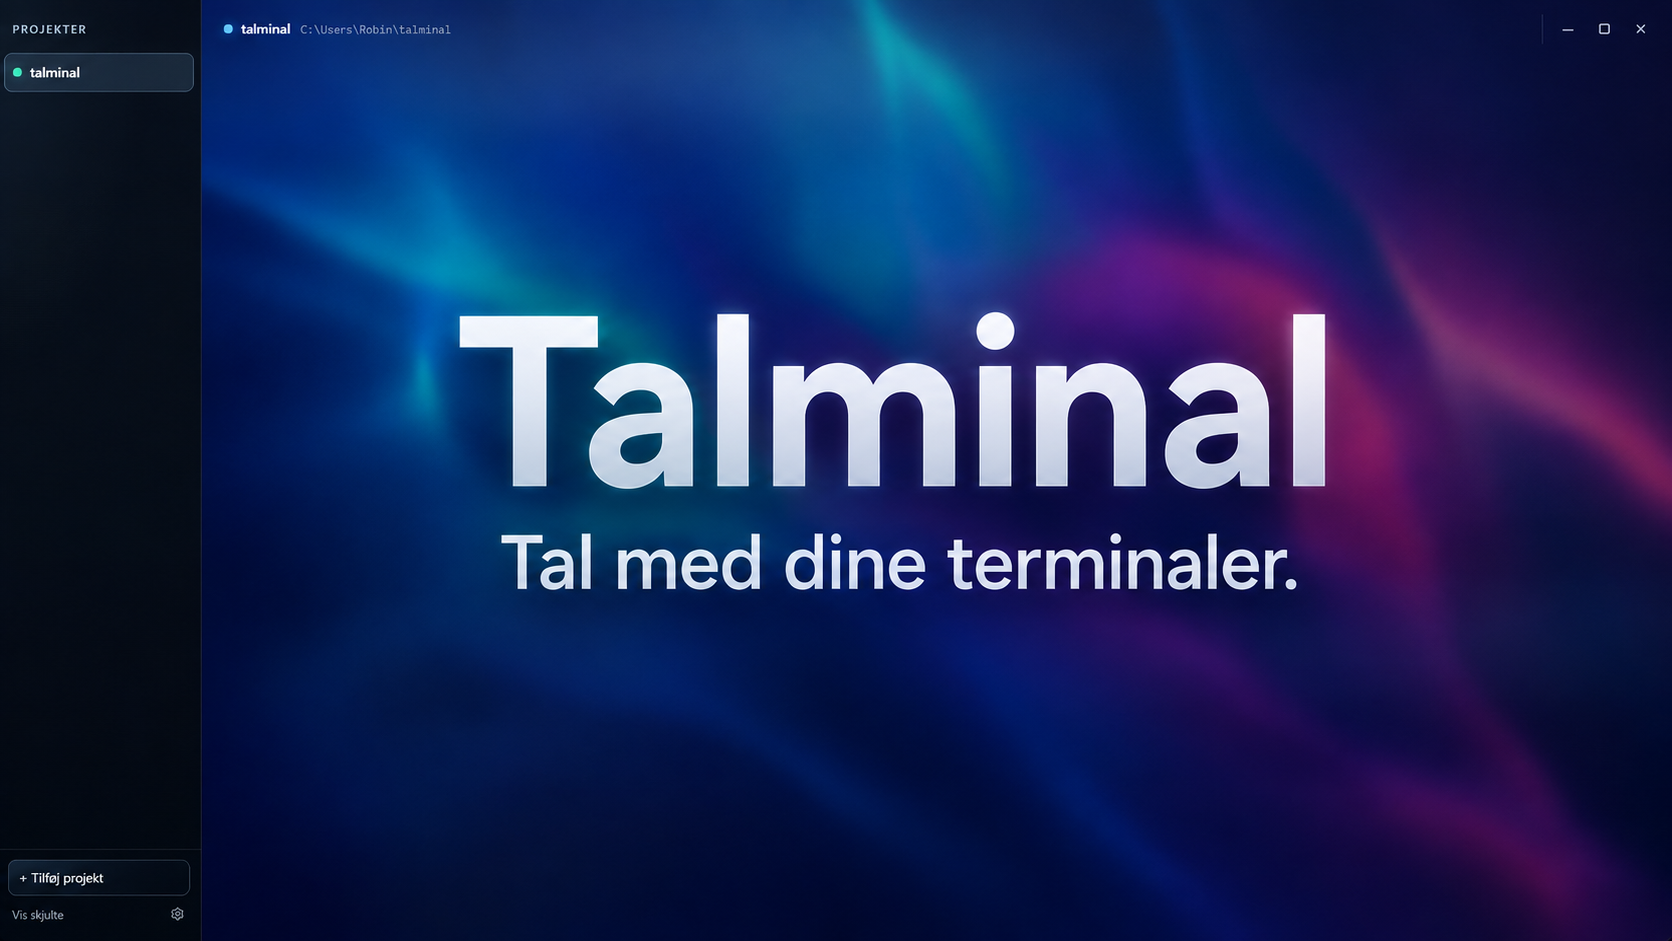
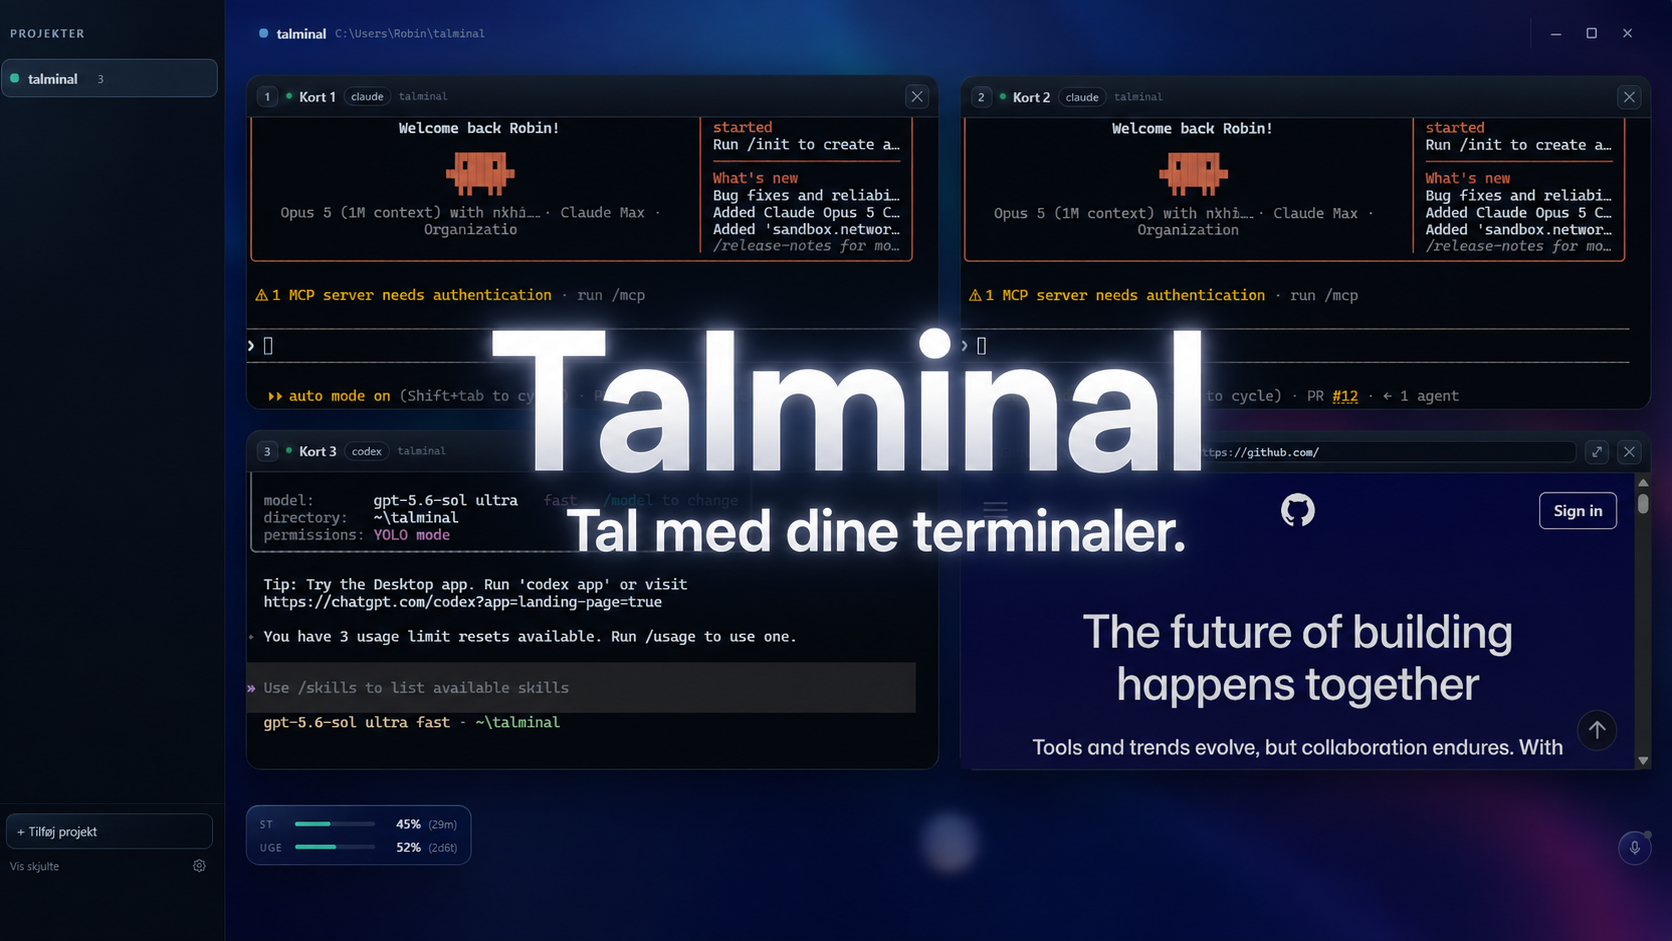
docs(readme): hero viser nu fire kort — stadig TIL GENNEMSYN
Erstatter motivet paa ejerens anmodning. Kopieret raat igen, saa C2PA er
intakt (31 forekomster, gpt-image 2.0).

Motivet er markant staerkere: fire kort — to Claude, et Codex, et browser-
kort — i stedet for et tomt canvas. Det svarer nu paa "hvad er det her?"
uden en linje tekst, og det viser det der adskiller produktet fra ccanvas
og de oevrige i OSS-slottet: flere agenter side om side.

MEN FORMATET ER UAENDRET. 1672x941 er samme 16:9 som foer, altsaa ca. 501 px
hoejde ved READMEens kolonnebredde. Hoejden var det ejeren ville aendre, og
den er den samme.

SANITERINGEN ER GAAET DEN FORKERTE VEJ. Med rigtigt indhold i kortene bar
det forrige motiv én laek (stien i titelbjaelken); dette baerer mindst syv.
De er skrevet ud i ASSETS.md. To skiller sig ud:

  * `permissions: YOLO mode` staar laesbart i Codex-kortet. SECURITY.md's
    baerende saetning er at et kort IKKE er en sandkasse; et hero-billede
    der viser agenten koere uden tilladelses-praompter, siger det modsatte
    i det foerste sekund en fremmed ser repoet.
  * "Welcome back Robin!" staar i begge Claude-kort, og `Claude Max`
    roeber abonnementsniveau.

Dertil daekker ordmaerket midten af kort 1 og 2 — teksten ligger oven paa
netop det indhold billedet er der for at vise.

Generated with Claude Code

diff --git a/ASSETS.md b/ASSETS.md
@@ -130,6 +130,15 @@ har tegnet UI'et efter et rigtigt skærmbillede. Det ligner produktet, men hvert
 syntetisk, og detaljer kan afvige fra den kørende app. Står det uden forbehold øverst i
 READMEen, læses det som dokumentation af hvordan appen ser ud.
 
+Motivet viser fire kort: to Claude-kort, et Codex-kort og et browser-kort.
+
+**IKKE SANITERET — må ikke følge med til visibility-flippet i denne form.** Launch-spec'ens
+§4 kræver demomateriale uden rigtige stier, navne og projektdata. Billedet indeholder
+mindst: `C:\Users\Robin\talminal` i titelbjælken, "Welcome back Robin!" i begge
+Claude-kort, `~\talminal` i Codex-kortet, abonnementsniveau (`Claude Max`), kontotilstand
+("3 usage limit resets available"), en konkret `PR #12`, en advarsel om en MCP-server der
+mangler autentificering — og `permissions: YOLO mode`.
+
 ## Hvis du tilføjer et aktiv
 
 Skriv det ind her med kilde, tidspunkt og rettighedsgrundlag i samme pull request. Et
